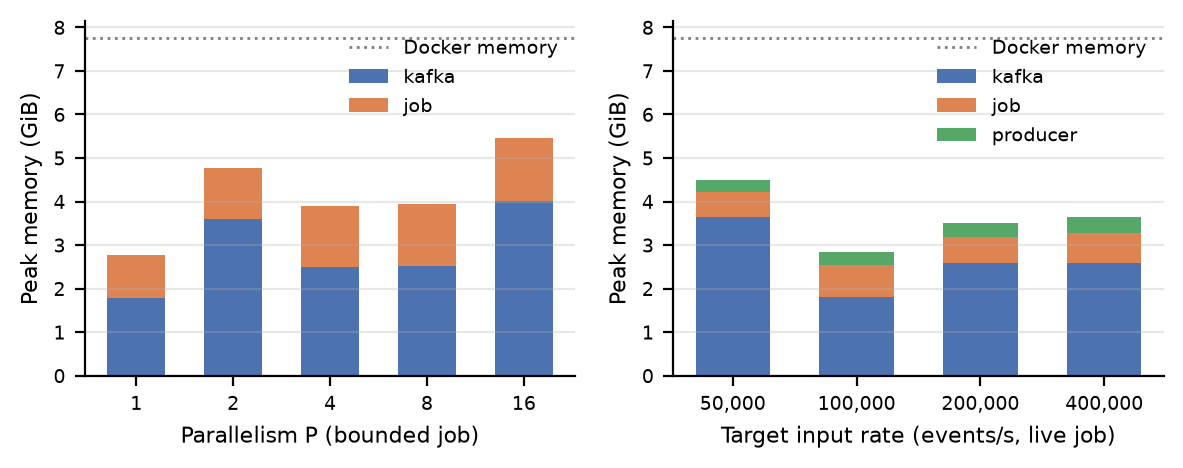
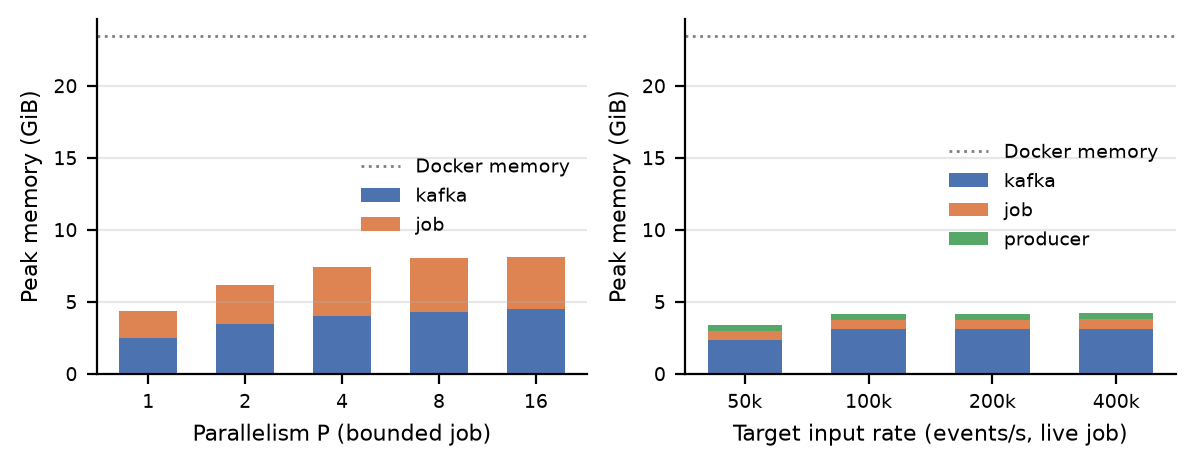
run benchmarks + few fixes to plotting

diff --git a/scripts/plot-benchmarks.py b/scripts/plot-benchmarks.py
@@ -18,6 +18,9 @@ full page width.
     latency-cdf  distribution of window latency per input rate
     cpu          mean CPU per container against parallelism and input rate
     memory       peak memory per container against parallelism and input rate
+
+Latency runs whose producer fell short of the target rate are left out of every figure: the
+producer was then running flat out, so they repeat the same load at a misleading target rate.
 """
 
 import csv
@@ -43,6 +46,7 @@ HEIGHT = 2.3
 CONTAINERS = {"kafka": "#4C72B0", "job": "#DD8452", "producer": "#55A868"}
 PERCENTILES = {"p50_ms": ("p50", "#4C72B0"), "p95_ms": ("p95", "#DD8452"), "p99_ms": ("p99", "#C44E52")}
 REFERENCE = "#7F7F7F"
+MINIMUM_ACHIEVED_FRACTION = 0.95
 
 plt.rcParams.update({
     "font.size": 8, "axes.titlesize": 8, "axes.labelsize": 8, "legend.fontsize": 7,
@@ -51,14 +55,23 @@ plt.rcParams.update({
 })
 
 
-def abbreviated(axis, minor: bool = True) -> None:
+def compact(value: float) -> str:
+    """Formats 1600000 as 1.6M and 388403 as 388k."""
+    if value >= 1e6:
+        return f"{value / 1e6:.3g}M"
+    if value >= 1e3:
+        return f"{value / 1e3:.3g}k"
+    return f"{value:g}"
+
+
+def abbreviated(axis, minor: bool = True, subs: tuple[float, ...] = (2, 5)) -> None:
     """Labels a logarithmic axis as 200, 500, 1k, 2k, … instead of powers of ten.
     Without `minor`, only the major ticks, such as ones set explicitly, are labelled."""
     def label(value, _):
-        return f"{value / 1e6:g}M" if value >= 1e6 else f"{value / 1e3:g}k" if value >= 1e3 else f"{value:g}"
+        return compact(value)
     axis.set_major_formatter(FuncFormatter(label))
     if minor:
-        axis.set_minor_locator(LogLocator(subs=(2, 5)))
+        axis.set_minor_locator(LogLocator(subs=subs))
         axis.set_minor_formatter(FuncFormatter(label))
     else:
         axis.set_minor_locator(NullLocator())
@@ -161,7 +174,7 @@ def plot_latency(rows) -> None:
     axis.set_yscale("log")
     axis.set_xticks(rates)
     abbreviated(axis.xaxis, minor=False)
-    abbreviated(axis.yaxis)
+    abbreviated(axis.yaxis, subs=(2, 3, 5))
     axis.set_xlabel("Achieved input rate (events/s)")
     axis.set_ylabel("Window latency (ms)")
     axis.legend(frameon=False)
@@ -179,13 +192,24 @@ def plot_latency_cdf(summary) -> None:
         values = sorted(max(float(window["latency_millis"]), 1) for window in windows)
         fractions = [(rank + 1) / len(values) for rank in range(len(values))]
         axis.step(values, fractions, where="post", color=colors(0.85 * index / max(1, len(rows) - 1)),
-                  label=f"{int(float(row['achieved_rate'])):,} ev/s")
+                  label=f"{compact(float(row['achieved_rate']))} ev/s")
     axis.set_xscale("log")
     axis.set_xlabel("Window latency (ms)")
     axis.set_ylabel("Fraction of windows")
     axis.set_ylim(0, 1.02)
     axis.legend(frameon=False)
     save(figure, "latency-cdf")
+
+
+def reached_target(summary: list[dict[str, str]]) -> list[dict[str, str]]:
+    kept = []
+    for row in summary:
+        if float(row["achieved_rate"]) >= MINIMUM_ACHIEVED_FRACTION * float(row["target_rate"]):
+            kept.append(row)
+        else:
+            print(f"Left out latency run at {compact(float(row['target_rate']))} events/s: "
+                  f"producer reached only {compact(float(row['achieved_rate']))}")
+    return kept
 
 
 def per_run(rows: list[dict[str, str]], keys: tuple[str, ...], value: str, reduce) -> dict:
@@ -205,7 +229,7 @@ def per_run(rows: list[dict[str, str]], keys: tuple[str, ...], value: str, reduc
 
 
 def stacked_bars(axis, by_run: dict, scale: float) -> None:
-    labels = [f"{int(key[0]):,}" for key in by_run]
+    labels = [compact(int(key[0])) for key in by_run]
     bottoms = [0.0] * len(labels)
     for container, color in CONTAINERS.items():
         heights = [values.get(container, 0) / scale for values in by_run.values()]
@@ -215,13 +239,15 @@ def stacked_bars(axis, by_run: dict, scale: float) -> None:
         bottoms = [b + h for b, h in zip(bottoms, heights)]
 
 
-def resource_figure(name: str, value: str, reduce, ylabel: str, scale: float, ceiling) -> None:
+def resource_figure(name: str, value: str, reduce, ylabel: str, scale: float, ceiling,
+                    latency_targets: set[str]) -> None:
     panels = []
     throughput_rows = read_csv(THROUGHPUT / "resources.csv")
     if throughput_rows:
         panels.append((per_run(throughput_rows, ("parallelism",), value, reduce),
                        "Parallelism P (bounded job)", read_host(THROUGHPUT)))
-    latency_rows = read_csv(LATENCY / "resources.csv")
+    latency_rows = [row for row in read_csv(LATENCY / "resources.csv") or []
+                    if row["target_rate"] in latency_targets]
     if latency_rows:
         panels.append((per_run(latency_rows, ("target_rate",), value, reduce),
                        "Target input rate (events/s, live job)", read_host(LATENCY)))
@@ -252,17 +278,18 @@ def main() -> None:
     else:
         print("Skipped throughput and speedup: no throughput.csv")
 
-    summary = read_csv(LATENCY / "summary.csv")
+    summary = reached_target(read_csv(LATENCY / "summary.csv") or [])
     if summary:
         plot_latency(summary)
         plot_latency_cdf(summary)
     else:
         print("Skipped latency and latency-cdf: no summary.csv")
+    latency_targets = {row["target_rate"] for row in summary}
 
     resource_figure("cpu", "cpu_percent", statistics.mean, "Mean CPU (% of one CPU)", 1,
-                    lambda host: (host["cpus"] * 100, f"{host['cpus']} CPUs"))
+                    lambda host: (host["cpus"] * 100, f"{host['cpus']} CPUs"), latency_targets)
     resource_figure("memory", "memory_bytes", max, "Peak memory (GiB)", 2**30,
-                    lambda host: (host["memory_bytes"] / 2**30, "Docker memory"))
+                    lambda host: (host["memory_bytes"] / 2**30, "Docker memory"), latency_targets)
 
 
 if __name__ == "__main__":

diff --git a/README.md b/README.md
@@ -68,7 +68,7 @@ docker compose run --rm --service-ports visualizer visualizer \
 ```bash
 python3 scripts/benchmark.py throughput   # after loading the ticks topic
 python3 scripts/benchmark.py latency data/<day-file>.csv
-uv run scripts/plot-benchmarks.py
+python3 scripts/plot-benchmarks.py
 ```
 
 Results go to `results/`. Pass `--help` for options.
